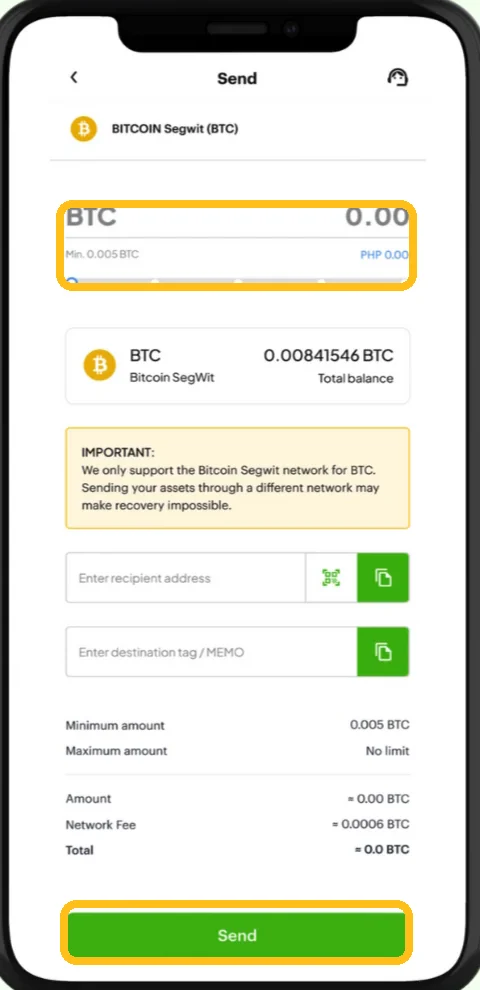
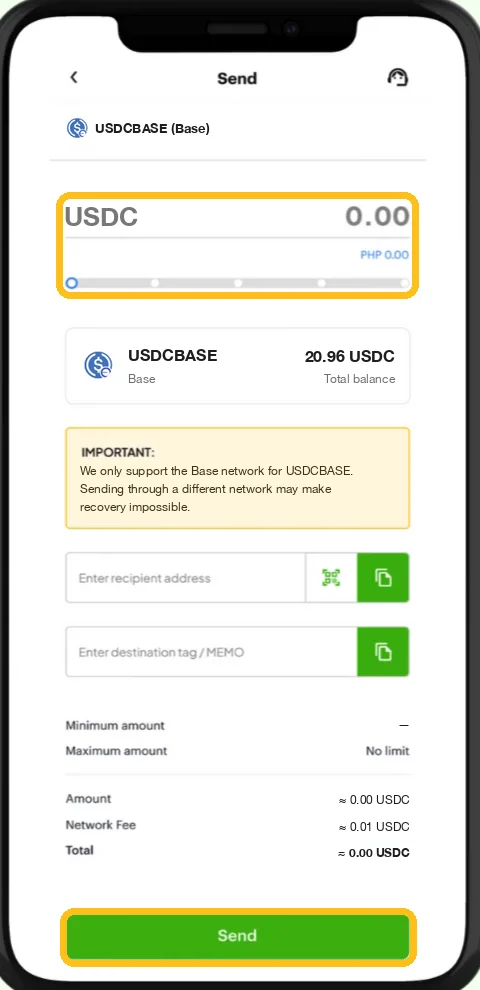
Repay (PDAX): send pictures show USDCBASE, not PDAX's BTC example
Edited PDAX's send frames so the coin list shows "usdc" searched with USDCBASE (Base)
boxed, and the send screen shows USDCBASE, its Base network note and a 0.01 USDC fee
(the fee a real PDAX send showed). Icons are from a borrower's own PDAX screenshot.

diff --git a/src/i18n/coverage/filH.ts b/src/i18n/coverage/filH.ts
@@ -60,7 +60,6 @@ export const filipinoCoverageH: Record<string, string> = {
    'PDAX may send a code to your email.': 'Baka magpadala ang PDAX ng code sa email mo.',
    'You’ll see “Your USDCBASE is on its way!”': 'Makikita mo ang “Your USDCBASE is on its way!”',
    'Search “usdc”, tap USDCBASE.': 'I-search ang “usdc”, i-tap ang USDCBASE.',
-   'Here it says BTC; yours says USDCBASE.': 'BTC ang nakasulat dito; USDCBASE sa iyo.',
    'Find USDCBASE': 'Hanapin ang USDCBASE',
    'Buy USDC': 'Bumili ng USDC',
    'Send it to your address': 'Ipadala sa address mo',

diff --git a/src/views/repay/AppGuideSteps.tsx b/src/views/repay/AppGuideSteps.tsx
@@ -96,7 +96,7 @@ const buildCards = ({
          {
             key: 'send-paste',
             title: 'Paste your address',
-            text: 'Here it says BTC; yours says USDCBASE.',
+            text: 'Network must say Base.',
             img: `${PDAX_IMG}/step9-paste.webp`,
             danger: 'Base network only'
          },
